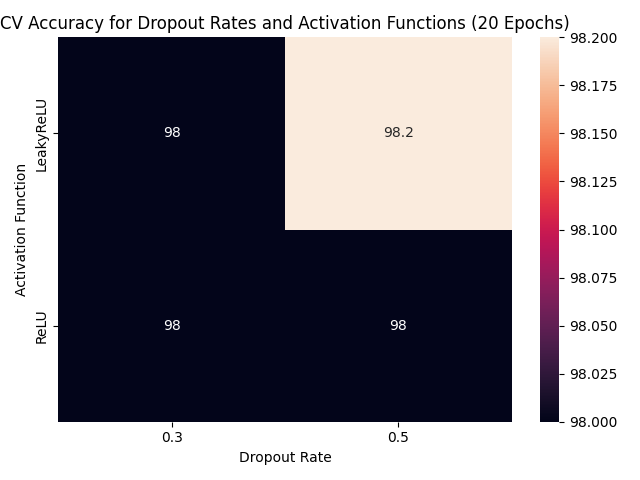
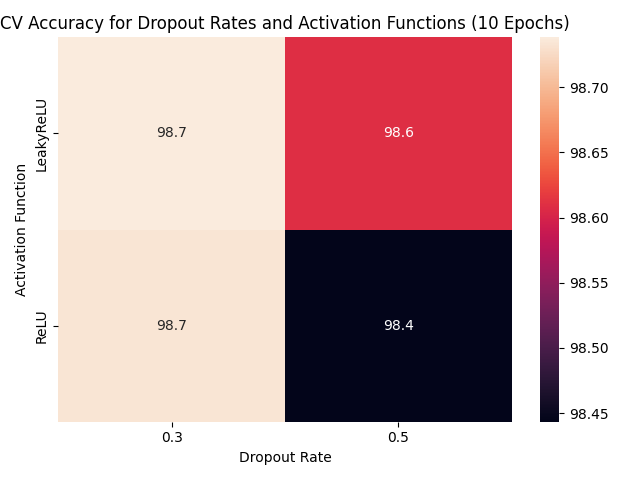
new results for dropout

diff --git a/src/utils/utils.py b/src/utils/utils.py
@@ -76,7 +76,7 @@ def plot_grid_heatmap(df: pd.DataFrame, config_path:str, filename=None, title: s
         title = rf"CV Accuracy with and without Padding and Pooling"
 
     if config['grid_search'] == 'dropout_vs_activations':
-        title = rf"CV Accuracy for Dropout Rates and Activation Functions (20 Epochs)"
+        title = rf"CV Accuracy for Dropout Rates and Activation Functions ({config["epochs"]} Epochs)"
     plt.clf()
     sns.heatmap(df, annot=annot, fmt='.3g')
     plt.title(title)
